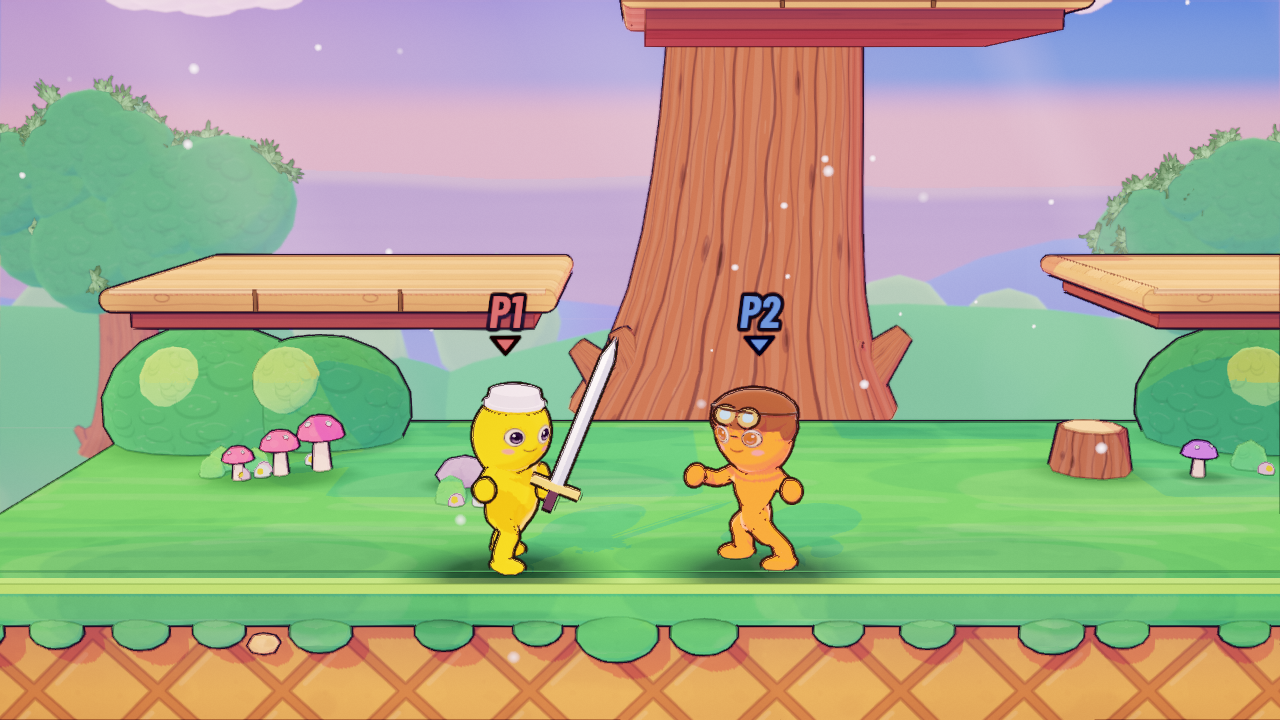
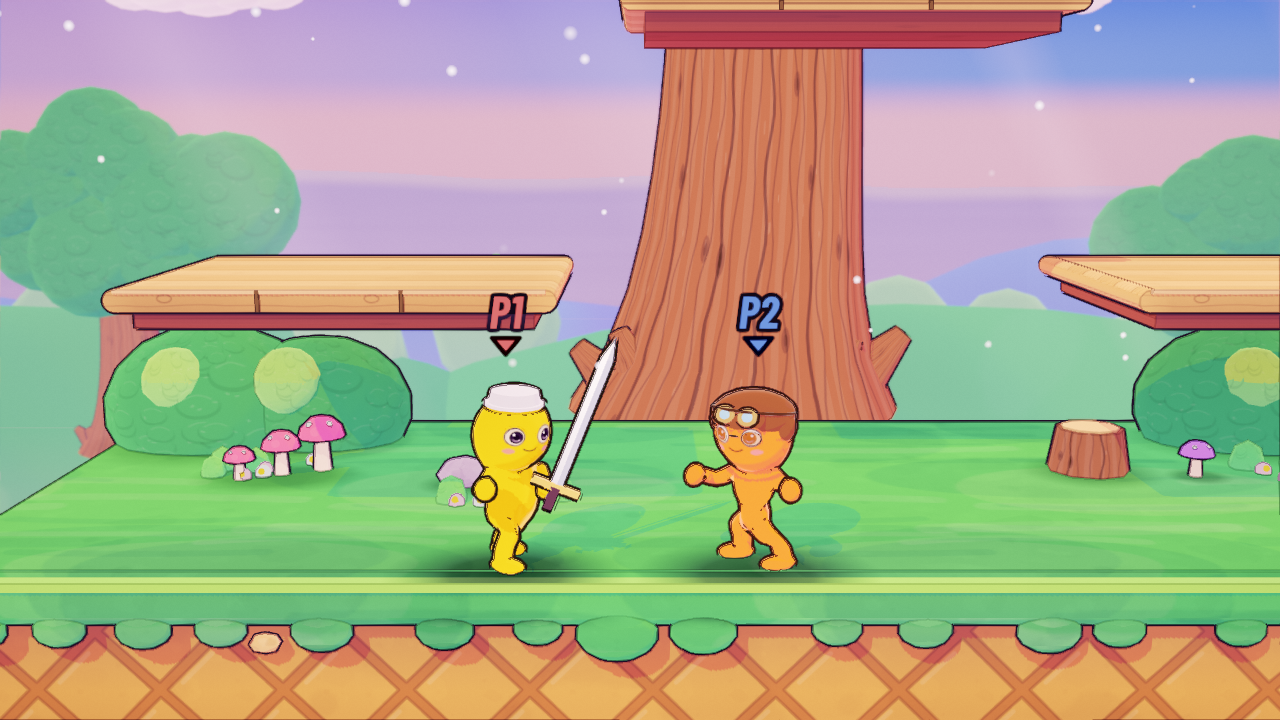
Tree crowns are round painted lobes only (no pointed leaf cards)

diff --git a/docs/ART_PIPELINE.md b/docs/ART_PIPELINE.md
@@ -859,9 +859,10 @@ stage its own identity). `docs/screenshots/meadow_day_sky_islands.png`, `meadow_
   lit tops, shaded feet, a few cracks) in warm sandstone, with moss hanging over the top of the wall in clumpy tongues
   (`moss_color`/`moss_amount` in `toon_common.gdshaderinc`: lit top, shaded hanging edge, a darker rim and a soft cast shadow on the
   stone), in place of the cobbles and the green bubbles. `meadow_lawn_close.png`.
-- **Painted trees** (`StageArt._leaf_cards`): a crown is mostly its solid lobes (cores at 95% of each mass, in the body green) with a
-  crisp step from lit top to cool underside (ramp 0.08, shadow 0.78) and a warm rim, its leaf cards cut to a third, larger, kept round
-  the silhouette and top so the edge scallops gently, in the body and lit greens only (the pale sunlit cards read as blossom). The
-  meadow's round trees are yellow-green to match the lawn; Treetop Isle keeps its teal. `meadow_trees.png`, `grove_trees.png`.
+- **Round painted crowns** (`StageArt._leaf_cards`): a crown is its solid lobes, full size, painted with round leaf clumps (the
+  `foliage` tile), with a crisp step from lit top to cool underside (ramp 0.08, shadow 0.78) and a warm rim. Pointed leaf cards were
+  tried at a third of the count and dropped: like blade grass, they read as noise at play distance (`CROWN_CARD_SHARE` 0; it brings
+  them back if a stage wants them). The meadow's round trees are yellow-green to match the lawn; Treetop Isle keeps its teal.
+  `meadow_trees.png`, `grove_trees.png`.
 - Costs (Meadow, stage demo): GPU about 1.8 to 1.9 ms, Treetop Isle 2.1 ms; look bench 0.87.
 
